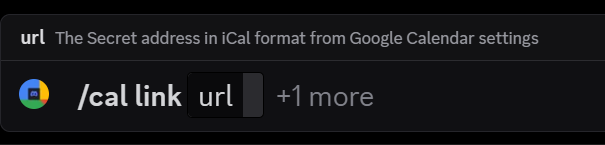
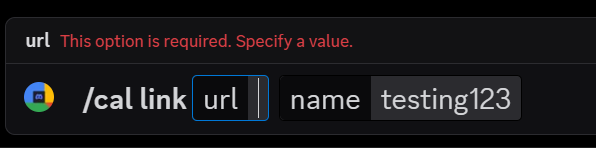
Use a clearer screenshot for the /cal link step of the guide

diff --git a/src/bot/commands/calendar/handlers/guide.ts b/src/bot/commands/calendar/handlers/guide.ts
@@ -7,7 +7,7 @@ import { PagerPayload, PagerState, buildPager, clampPage } from '../../../pager'
 export const GUIDE_PAGER_KIND = 'g';
 
 // Bump after replacing a screenshot: Discord caches embed images by URL.
-const IMAGE_VERSION = 2;
+const IMAGE_VERSION = 3;
 
 interface GuideStep {
   title: string;
